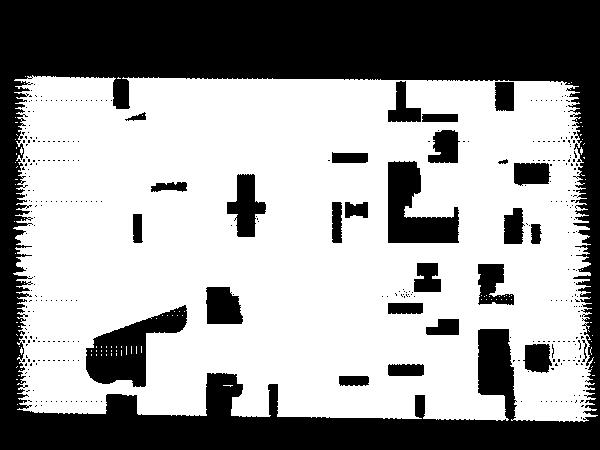
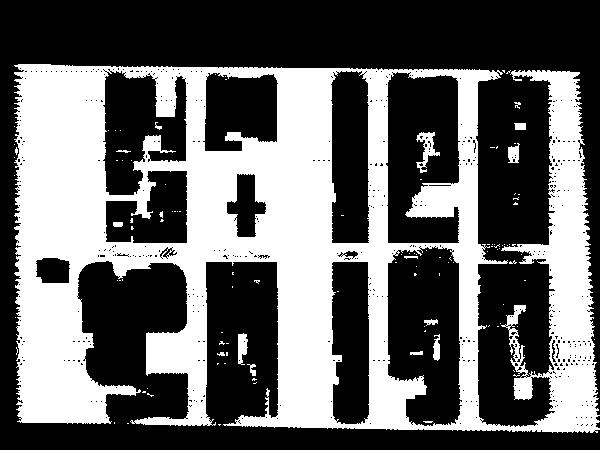
Test 1
Attempted to make Sinosodal Path for drone scan to improve A* clarity.

diff --git a/AlgoStuff/TwoDroneSTLtoOMap.m b/AlgoStuff/TwoDroneSTLtoOMap.m
@@ -3,25 +3,28 @@ close all;
 close all hidden;
 
 % Define the total simulation time in seconds
-simTime = 60;
+simTime = 120;
 
 % Set the update rate for the simulation in Hz
 updateRate = 10;
 
-% Create arrays for the x, y, and z coordinates of the waypoints (forming a grid)
-x = 0:600;
-y = 300*ones(1,length(x))
-z = 100*ones(1,length(x));
+% Define parameters for snake path
+num_points = 1000; % Number of points to represent the snake path
+frequency = 0.05; % Frequency of the sinusoidal curve
+amplitude = 180; % Amplitude of the sinusoidal curve
+z_value = 100; % Constant value for the Z dimension
 
-% Create arrays for the x, y, and z coordinates of the waypoints (forming a grid)
-x1 = 0:600;
-y1 = 100*ones(1,length(x))
+% Initialize variables
+snake_path = zeros(num_points, 3); % Transposed to 1000x3
 
-% Combine x, y, and z into a 3D matrix representing the waypoints
-waypoints = [x' y' z'];
-% Combine x, y, and z into a 3D matrix representing the waypoints
-waypoints1 = [x1' y1' z'];
-disp(waypoints1)
+% Generate snake path
+x_values = linspace(0, 600, num_points); % Generate evenly spaced x-values
+y_values = (450 / 2) + amplitude * sin(frequency * x_values); % Calculate corresponding y-values
+
+% Store waypoints with Z dimension
+snake_path(:, 1) = x_values;
+snake_path(:, 2) = y_values;
+snake_path(:, 3) = z_value; % Assign constant Z value
 
 % Define the initial Euler angles for the UAV's orientation (0 degrees in all directions)
 orientation_eul = [0 0 0];
@@ -30,53 +33,33 @@ orientation_eul = [0 0 0];
 orientation_quat = quaternion(eul2quat(orientation_eul));
 
 % Create a matrix to repeat the same initial orientation for all waypoints
-orientation_vec = repmat(orientation_quat,length(x),1);
+orientation_vec = repmat(orientation_quat,length(x_values),1);
+
 
 % Create an array of time points corresponding to each waypoint for a smooth trajectory
-time = 0:(simTime/(length(x)-1)):simTime;
+time = 0:(simTime/(length(x_values)-1)):simTime;
 
 % Define a waypointTrajectory object representing the UAV's planned path
-trajectory1 = waypointTrajectory("Waypoints",waypoints,"Orientation",orientation_vec, ...
+trajectory = waypointTrajectory("Waypoints",snake_path,"Orientation",orientation_vec, ...
     "SampleRate",updateRate,"ReferenceFrame","ENU","TimeOfArrival",time);
 
 % Set the initial position and orientation of the first UAV
 initial_pose1 = [0 100 100 1 0 0 0];
 
+
 % Create a uavPlatform object representing the first UAV with its defined characteristics
-plat1 = uavPlatform("UAV1",Scenario,"Trajectory",trajectory1,"ReferenceFrame","ENU");
+plat = uavPlatform("UAV",Scenario,"Trajectory",trajectory,"ReferenceFrame","ENU");
 
 % Update the visual representation of the first UAV to a quadrotor model
-updateMesh(plat1,"quadrotor",{4},[1 0 0],eye(4));
+updateMesh(plat,"quadrotor",{4},[1 0 0],eye(4));
 
 % Define the lidar sensor parameters for the first UAV
-lidarmodel1 = uavLidarPointCloudGenerator("AzimuthResolution",0.6, ...
+lidarmodel = uavLidarPointCloudGenerator("AzimuthResolution",0.6, ...
     "ElevationLimits",[-90 -20],"ElevationResolution",2.5, ...
     "MaxRange",200,"UpdateRate",2,"HasOrganizedOutput",true);
 
 % Create a uavSensor object representing the lidar sensor attached to the first UAV
-lidar1 = uavSensor("Lidar1",plat1,lidarmodel1,"MountingLocation",[0 0 -1],"MountingAngles",[0 0 0]);
-
-
-% Define a waypointTrajectory object representing the second UAV's planned path (opposite diagonal)
-trajectory2 = waypointTrajectory("Waypoints",[flipud(waypoints1(:,1:2)), waypoints1(:,3)], ...
-    "Orientation",orientation_vec, "SampleRate",updateRate,"ReferenceFrame","ENU","TimeOfArrival",time);
-
-% Set the initial position and orientation of the second UAV
-initial_pose2 = [0 300 100 1 0 0 0]; % Opposite diagonal corner
-
-% Create a uavPlatform object representing the second UAV with its defined characteristics
-plat2 = uavPlatform("UAV2",Scenario,"Trajectory",trajectory2,"ReferenceFrame","ENU");
-
-% Update the visual representation of the second UAV to a quadrotor model
-updateMesh(plat2,"quadrotor",{4},[0 0 1],eye(4)); % Change color to differentiate from the first UAV
-
-% Define the lidar sensor parameters for the second UAV
-lidarmodel2 = uavLidarPointCloudGenerator("AzimuthResolution",0.6, ...
-    "ElevationLimits",[-90 -20],"ElevationResolution",2.5, ...
-    "MaxRange",200,"UpdateRate",2,"HasOrganizedOutput",true);
-
-% Create a uavSensor object representing the lidar sensor attached to the second UAV
-lidar2 = uavSensor("Lidar2",plat2,lidarmodel2,"MountingLocation",[0 0 -1],"MountingAngles",[0 0 0]);
+lidar = uavSensor("Lidar",plat,lidarmodel,"MountingLocation",[0 0 -1],"MountingAngles",[0 0 0]);
 
 % Create an axis and visualization elements for displaying the 3D environment
 [ax, plotFrames] = show3D(Scenario);
@@ -96,21 +79,17 @@ axis equal;
 hold on;
 
 % Initialize a pointCloud object to store the combined lidar point cloud data
-combined_ptc = pointCloud(nan(1,1,3));
+ptc = pointCloud(nan(1,1,3));
 
 % Create a scatter plot to visualize the combined lidar data points in 3D
-combined_scatterplot1 = scatter3(nan,nan,nan,1,[0.3020 0.7451 0.9333],...
-    "Parent",plotFrames.UAV1.Lidar1);
-
-% Create a scatter plot to visualize the combined lidar data points in 3D
-combined_scatterplot2 = scatter3(nan,nan,nan,1,[0.3020 0.7451 0.9333],...
-    "Parent",plotFrames.UAV2.Lidar2);
+scatterplot = scatter3(nan,nan,nan,1,[0.3020 0.7451 0.9333],...
+    "Parent",plotFrames.UAV.Lidar);
 
 % Link the scatter plot's data sources to the underlying combined point cloud data
-combined_scatterplot.XDataSource = "reshape(combined_ptc.Location(:,:,1), [], 1)";
-combined_scatterplot.YDataSource = "reshape(combined_ptc.Location(:,:,2), [], 1)";
-combined_scatterplot.ZDataSource = "reshape(combined_ptc.Location(:,:,3), [], 1)";
-combined_scatterplot.CDataSource = "reshape(combined_ptc.Location(:,:,3), [], 1) - min(reshape(combined_ptc.Location(:,:,3), [], 1))";
+scatterplot.XDataSource = "reshape(ptc.Location(:,:,1), [], 1)";
+scatterplot.YDataSource = "reshape(ptc.Location(:,:,2), [], 1)";
+scatterplot.ZDataSource = "reshape(ptc.Location(:,:,3), [], 1)";
+scatterplot.CDataSource = "reshape(ptc.Location(:,:,3), [], 1) - min(reshape(ptc.Location(:,:,3), [], 1))";
 
 % Disable plotting multiple elements on the same figure
 hold off;
@@ -119,13 +98,11 @@ hold off;
 lidarSampleTime = [];
 
 % Initialize cell arrays to store raw and processed lidar point cloud data for both UAVs
-pt1 = cell(1,((updateRate*simTime) +1));
-ptOut1 = cell(1,((updateRate*simTime) +1));
-pt2 = cell(1,((updateRate*simTime) +1));
-ptOut2 = cell(1,((updateRate*simTime) +1));
+pt = cell(1,((updateRate*simTime) +1));
+ptOut = cell(1,((updateRate*simTime) +1));
 
 % Create an occupancyMap3D object to represent the 3D occupancy map
-map3D = occupancyMap3D();
+map3D = occupancyMap3D(1);
 
 % Set up the simulation environment
 setup(Scenario);
@@ -136,41 +113,29 @@ counter = 0;
 % Index for data storage
 ptIdx = 0;
 
+tic
 % Main simulation loop
 while Scenario.IsRunning && counter < 1000
     % Increment index for data storage
     ptIdx = ptIdx + 1;
 
     % Read the simulated lidar data from both UAVs
-    [isUpdated1, lidarSampleTime1, pt1{ptIdx}] = read(lidar1);
-    [isUpdated2, lidarSampleTime2, pt2{ptIdx}] = read(lidar2);
+    [isUpdated, lidarSampleTime, pt{ptIdx}] = read(lidar);
 
     % Process lidar data if it's updated
-    if isUpdated1 || isUpdated2
+    if isUpdated
         % Get the lidar sensor's pose relative to ENU reference frame for both UAVs
-        sensorPose1 = getTransform(Scenario.TransformTree, "ENU","UAV1/Lidar1",lidarSampleTime1);
-        sensorPose2 = getTransform(Scenario.TransformTree, "ENU","UAV2/Lidar2",lidarSampleTime2);
+        sensorPose = getTransform(Scenario.TransformTree, "ENU","UAV/Lidar",lidarSampleTime);
 
-        % Update point cloud object with raw data from the first UAV
-        if isUpdated1
-            ptc1 = pt1{ptIdx};
-            ptOut1{ptIdx} = removeInvalidPoints(ptc1);
-            insertPointCloud(map3D,[sensorPose1(1:3,4)' tform2quat(sensorPose1)],ptOut1{ptIdx},500);
-        end
-
-        % Update point cloud object with raw data from the second UAV
-        if isUpdated2
-            ptc2 = pt2{ptIdx};
-            ptOut2{ptIdx} = removeInvalidPoints(ptc2);
-            insertPointCloud(map3D,[sensorPose2(1:3,4)' tform2quat(sensorPose2)],ptOut2{ptIdx},500);
-        end
-
-        % Combine lidar point cloud data from both UAVs
-        combined_ptc = pcmerge(ptOut1{ptIdx}, ptOut2{ptIdx}, 0.1);
+        % Process the simulated Lidar pointcloud.
+        ptc = pt{ptIdx};
+        ptOut{ptIdx} = removeInvalidPoints(pt{ptIdx});
+        % Construct the occupancy map using Lidar readings.
+        insertPointCloud(map3D,[sensorPose(1:3,4)' tform2quat(sensorPose)],ptOut{ptIdx},500);
 
         % Update 3D visualization with current simulation state and combined point cloud
         figure(1)
-        show3D(Scenario,"Time",max(lidarSampleTime1, lidarSampleTime2),"FastUpdate",true,"Parent",ax);
+        show3D(Scenario,"Time",lidarSampleTime,"FastUpdate",true,"Parent",ax);
         xlim([0 600]);
         ylim([0 400]);
         zlim([0 110]);
@@ -187,6 +152,7 @@ while Scenario.IsRunning && counter < 1000
     % Increment counter
     counter = counter + 1;
 end
+toc
 
 % Display completion message
 disp('ended')

diff --git a/AlgoStuff/TEst.m b/AlgoStuff/TEst.m
@@ -1,0 +1,25 @@
+% Define map dimensions
+map_width = 600;
+map_height = 400;
+
+% Define parameters for snake path
+num_points = 1000; % Number of points to represent the snake path
+frequency = 0.05; % Frequency of the sinusoidal curve
+amplitude = 180; % Amplitude of the sinusoidal curve
+z_value = 50; % Constant value for the Z dimension
+
+% Initialize variables
+snake_path = zeros(num_points, 3); % Transposed to 1000x3
+
+% Generate snake path
+x_values = linspace(0, map_width, num_points); % Generate evenly spaced x-values
+y_values = (map_height / 2) + amplitude * sin(frequency * x_values); % Calculate corresponding y-values
+
+% Store waypoints with Z dimension
+snake_path(:, 1) = x_values;
+snake_path(:, 2) = y_values;
+snake_path(:, 3) = z_value; % Assign constant Z value
+
+% Display the snake path
+disp('Snake Path:');
+disp(snake_path);
